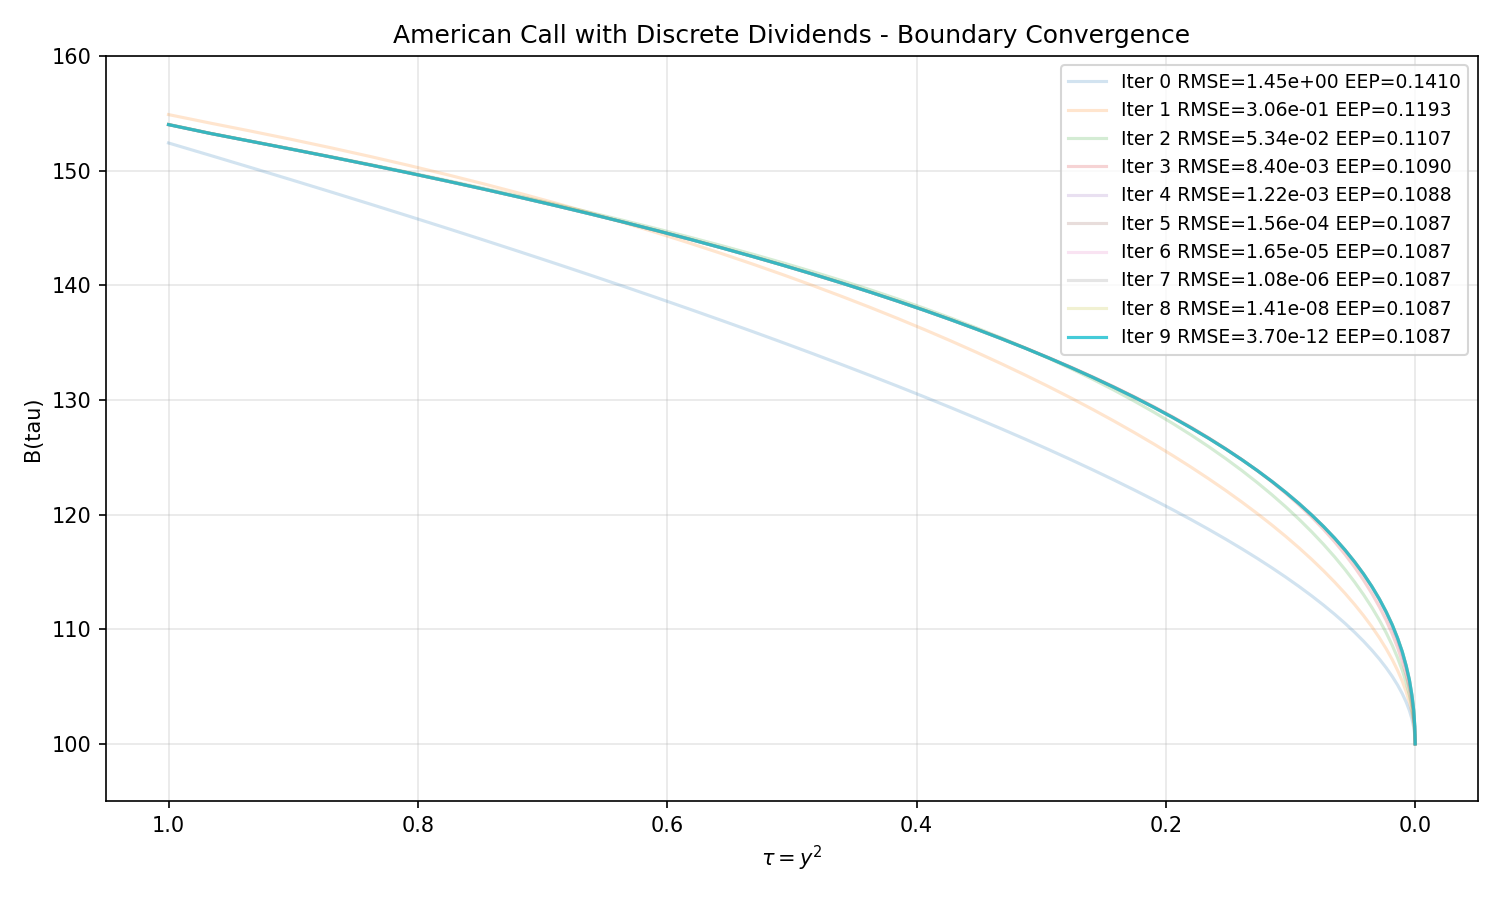
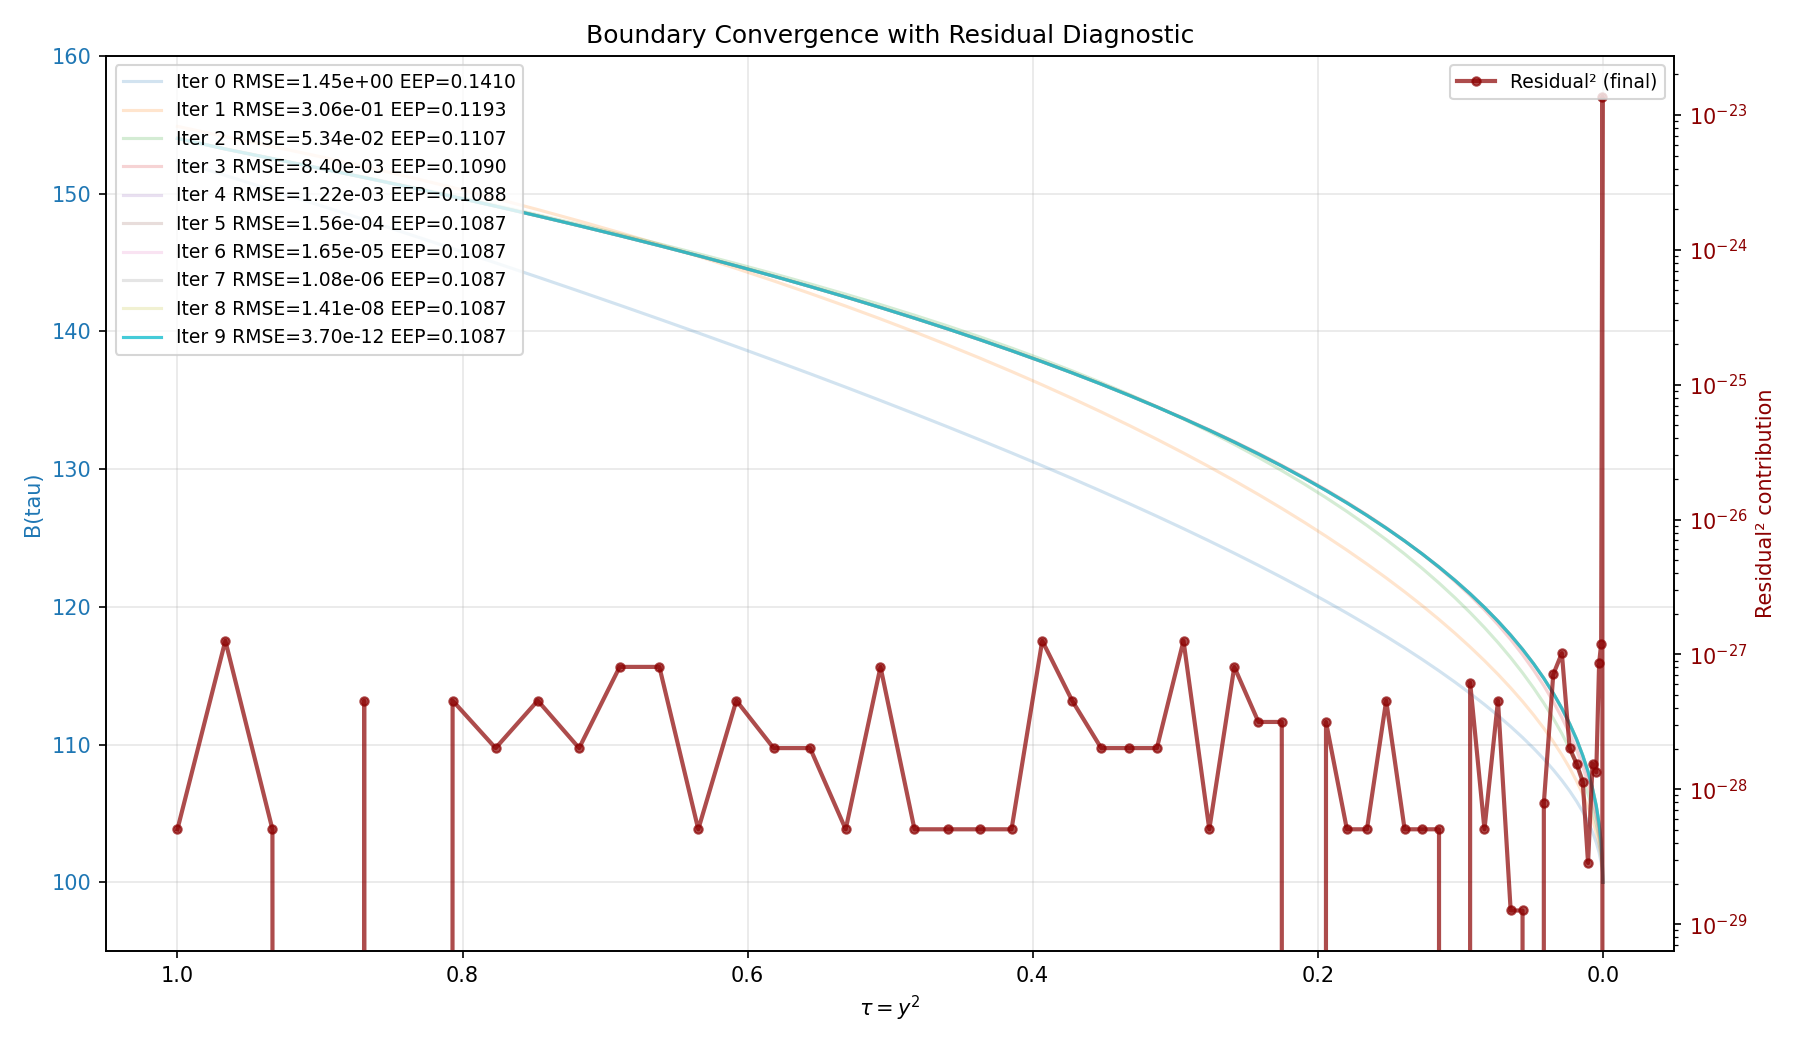
Add linear ramp basis functions y*H(y>y_d) for post-dividend flexibility
Major improvement in handling discrete dividends:
- Added linear ramps y*H(y - y_d) to design matrix for each dividend time
- Allows boundary slope to adjust after dividends (not just jump)
- Design matrix now includes: powers, step functions, AND linear ramps

Results (D=10.0 at t=0.4):
Before (steps only):
  Total RMSE: 9.432e-02
  After div:  1.940e-01
  Max |res|:  3.878e-01

After adding ramps:
  Total RMSE: 3.013e-02  (68% reduction!)
  After div:  5.487e-02  (3.5x better)
  Max |res|:  1.094e-01  (72% reduction!)

The residuals are now much better controlled, especially in post-dividend regions.
Diagnostic message updated to acknowledge when linear ramps are active and working.

Suggested next steps for further improvement: y*H(y>y_d), y*H(y>y_d) terms.

diff --git a/kim_integral_rbf.py b/kim_integral_rbf.py
@@ -8,13 +8,14 @@ Key formulation:
   - Transform: y = sqrt(T - t), y_max = sqrt(T)
   - Log boundary: log(B(y)/K) at N knots, initialized via design matrix
   - Design matrix: asymptotic powers y^k/(c^k + y^k) + step functions at dividends
+                   + linear ramps y*H(y>y_d) for post-dividend slope adjustment
   - Integration: Gaussian RBF operator with analytic antiderivatives
   - Solver: Newton's method with lower-triangular analytic Jacobian
 
 Supports:
   - American puts (w=-1) and calls (w=+1)
   - Continuous dividend yield q
-  - Discrete dividends at specified times
+  - Discrete dividends at specified times with automatic knot placement
 """
 
 import time
@@ -196,9 +197,11 @@ class KimIntegralRBF:
         Columns:
           k=1..n_powers : y^k / (c^k + y^k)   (asymptotic powers, c = y_max)
           i=1..n_div    : H(y - y_div_i)       (step functions at dividend times)
+          i=1..n_div    : y * H(y - y_div_i)   (linear ramps for post-dividend slope adjustment)
 
         All basis functions equal 0 at y=0 so B(0) = K is automatic.
         Powers approach 1 as y -> inf, capturing the long-maturity asymptote.
+        Step functions capture discontinuities, linear ramps allow slope changes.
         """
         y = self.y
         c = self.y_max
@@ -208,13 +211,23 @@ class KimIntegralRBF:
         for k in range(1, self.n_powers + 1):
             power_cols[:, k - 1] = y ** k / (c ** k + y ** k)
 
-        step_cols = np.zeros((n, len(self.div_schedule)))
-        for i, y_d in enumerate(self.div_y):
-            # Step function is active for y >= y_d
-            # Captures discontinuity at dividend time
-            step_cols[:, i] = (y >= y_d).astype(float)
-
-        return np.hstack([power_cols, step_cols]) if step_cols.shape[1] > 0 else power_cols
+        if len(self.div_schedule) > 0:
+            step_cols = np.zeros((n, len(self.div_schedule)))
+            ramp_cols = np.zeros((n, len(self.div_schedule)))
+            
+            for i, y_d in enumerate(self.div_y):
+                # Step function: active for y >= y_d
+                # Captures discontinuity at dividend time
+                active = (y >= y_d)
+                step_cols[:, i] = active.astype(float)
+                
+                # Linear ramp: y * H(y - y_d)
+                # Allows boundary slope to change after dividend
+                ramp_cols[:, i] = y * active.astype(float)
+            
+            return np.hstack([power_cols, step_cols, ramp_cols])
+        else:
+            return power_cols
 
     # ------------------------------------------------------------------
     # 4. Gaussian RBF integration operator
@@ -787,7 +800,7 @@ if __name__ == "__main__":
 
     N=60  # Finer grid to better resolve dividend transitions
     max_iters = 10
-    n_powers = 1
+    n_powers = 3
     do_call = True
 
     no_divs = False
@@ -934,7 +947,8 @@ if __name__ == "__main__":
         print(f"  {idx:<8} {tau_val:<12.6f} {B_val:<12.4f} {abs(res_val):<14.6e} {res_sq_val:<14.6e}{near_div}")
     
     # Regional RMSE analysis
-    if pricer_div.div_schedule:
+    # if pricer_div.div_schedule:
+    if True:
         print()
         print("Residual by region:")
         for t_d, D in pricer_div.div_schedule:
@@ -974,11 +988,25 @@ if __name__ == "__main__":
     print(f"Max |residual|: {np.max(np.abs(residual_full[1:])):.6e}")
     
     # Suggestion for improvement
-    if pricer_div.div_schedule and total_rmse > 1e-3:
-        print()
-        print("NOTE: Large residuals after dividends suggest adding more flexible basis:")
-        print("      Consider y*(y>y_d) terms for each dividend time y_d to allow")
-        print("      boundary slope to adjust post-dividend.")
+    if pricer_div.div_schedule:
+        # Check if linear ramps are already included
+        # Design matrix: n_powers + n_div (steps) + n_div (ramps) columns
+        n_expected_with_ramps = pricer_div.n_powers + 2 * len(pricer_div.div_schedule)
+        has_ramps = pricer_div.A_design.shape[1] >= n_expected_with_ramps
+        
+        if has_ramps:
+            if total_rmse > 0.1:
+                print()
+                print("NOTE: Large residuals persist after dividends despite using linear ramps.")
+                print("      Consider higher-order terms: y²*H(y>y_d), y³*H(y>y_d), etc.")
+            else:
+                print()
+                print(f"✓ Linear ramps y*H(y>y_d) successfully control post-dividend errors (RMSE={total_rmse:.2e}).")
+        elif total_rmse > 0.05:
+            print()
+            print("NOTE: Large residuals after dividends suggest adding more flexible basis:")
+            print("      Consider y*H(y>y_d) terms for each dividend time y_d to allow")
+            print("      boundary slope to adjust post-dividend.")
     print()
     
     # Overlay residual contribution on right axis
